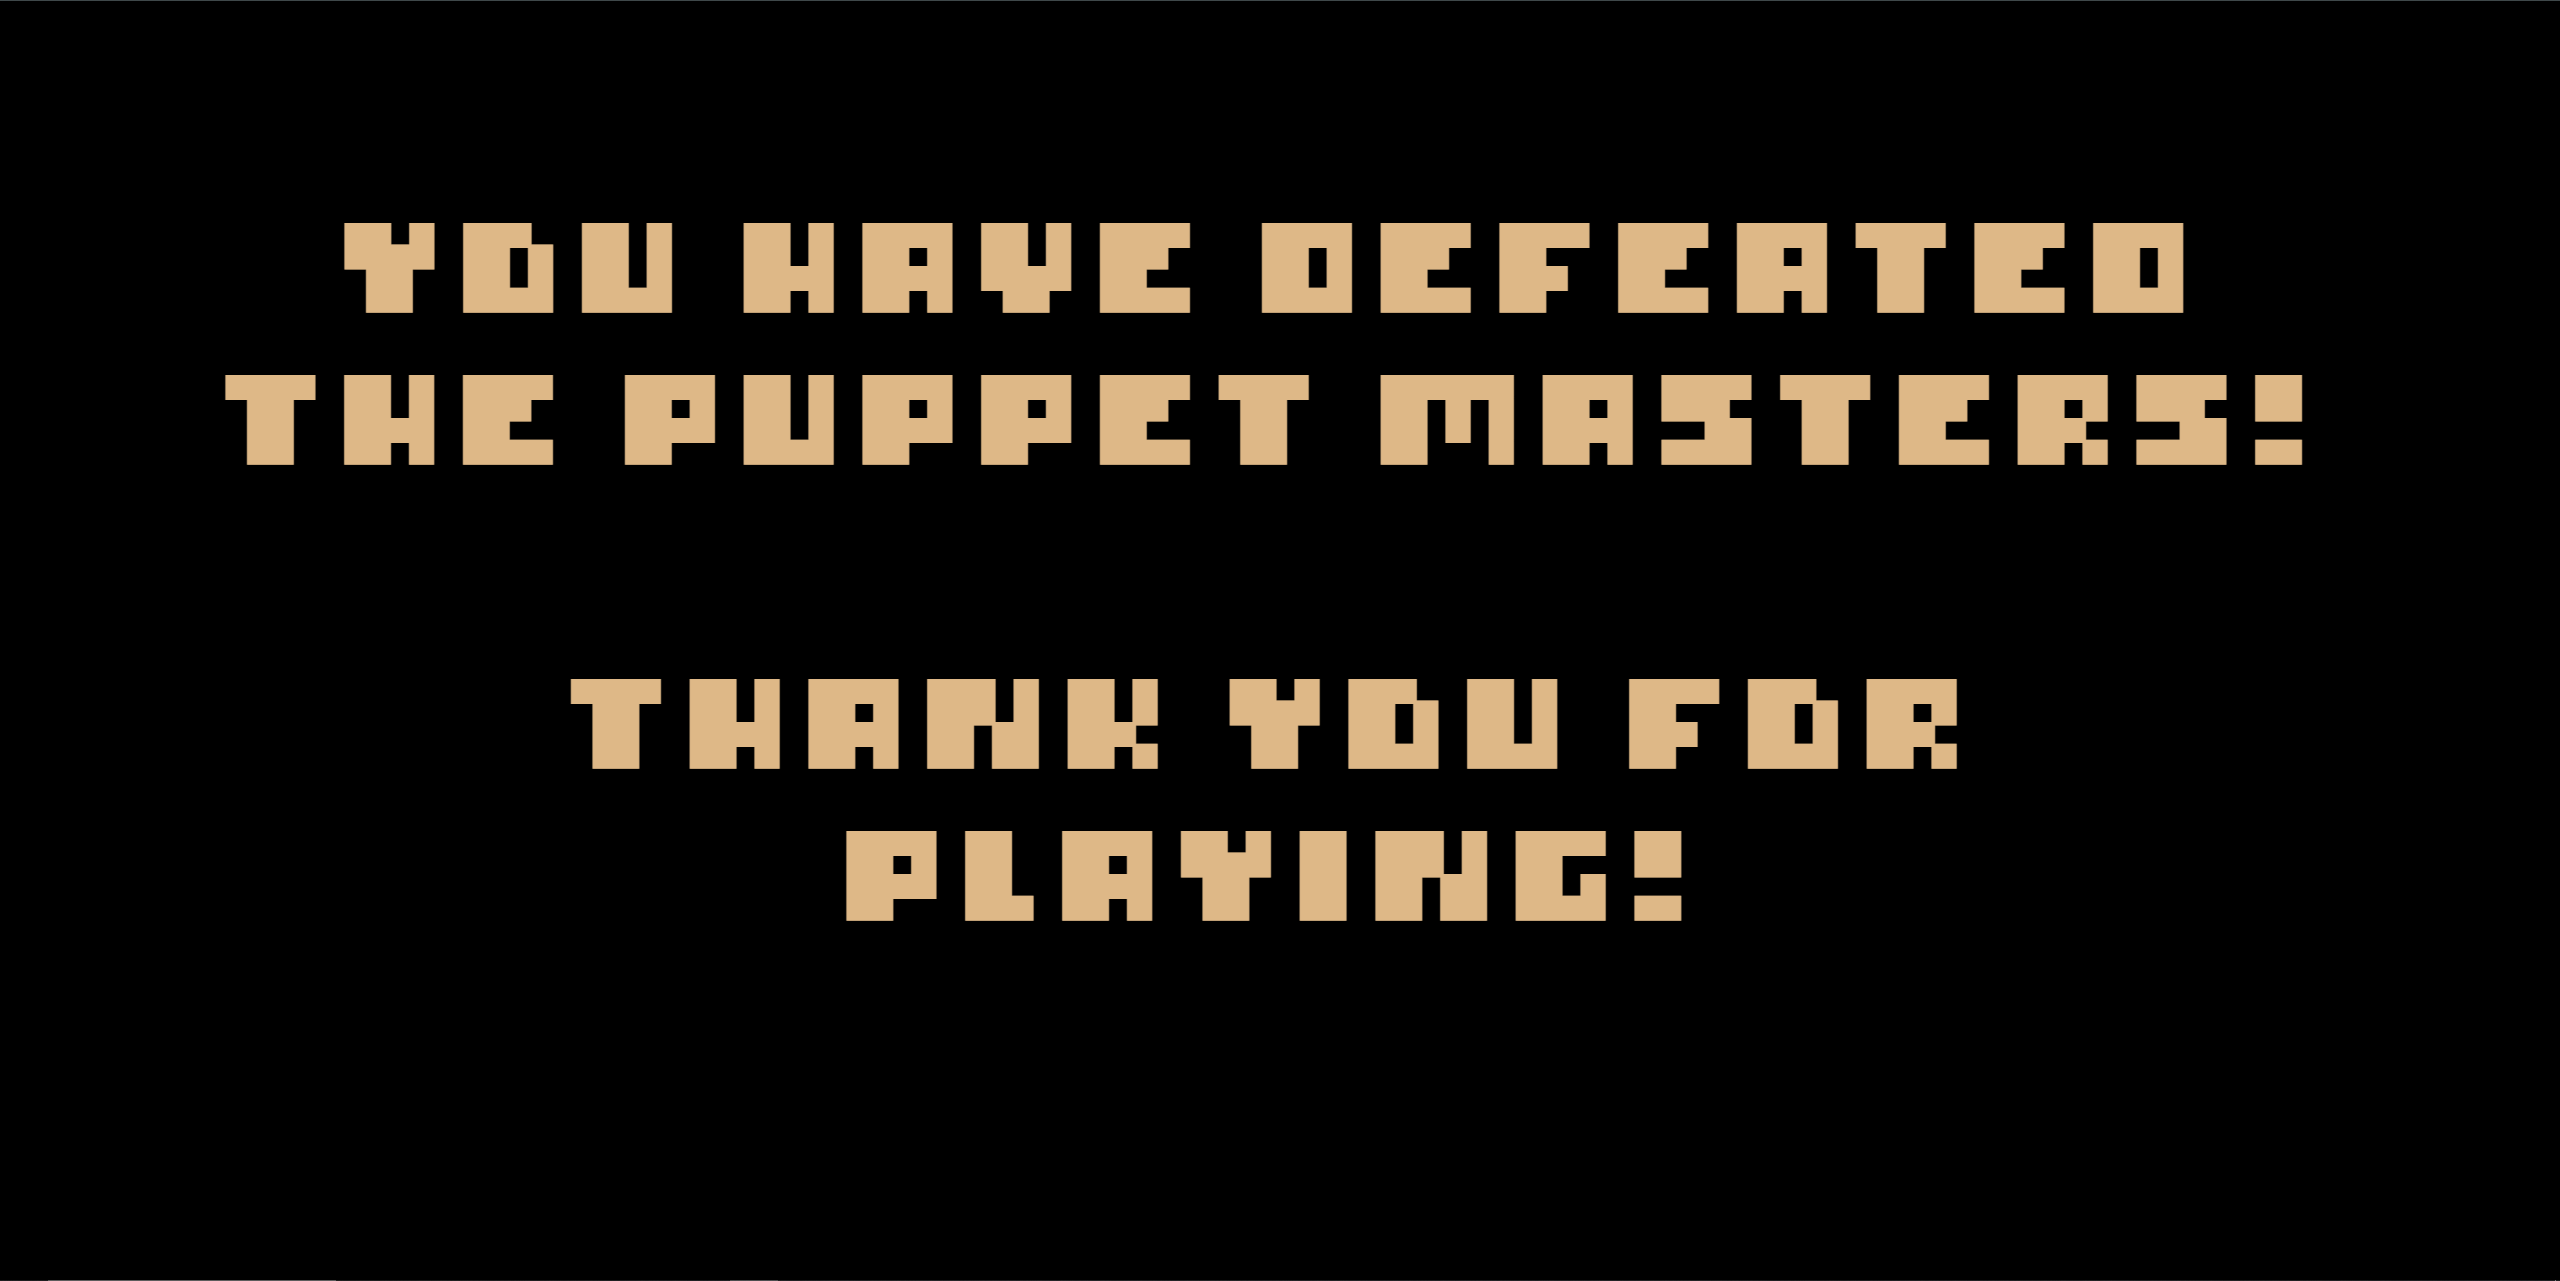
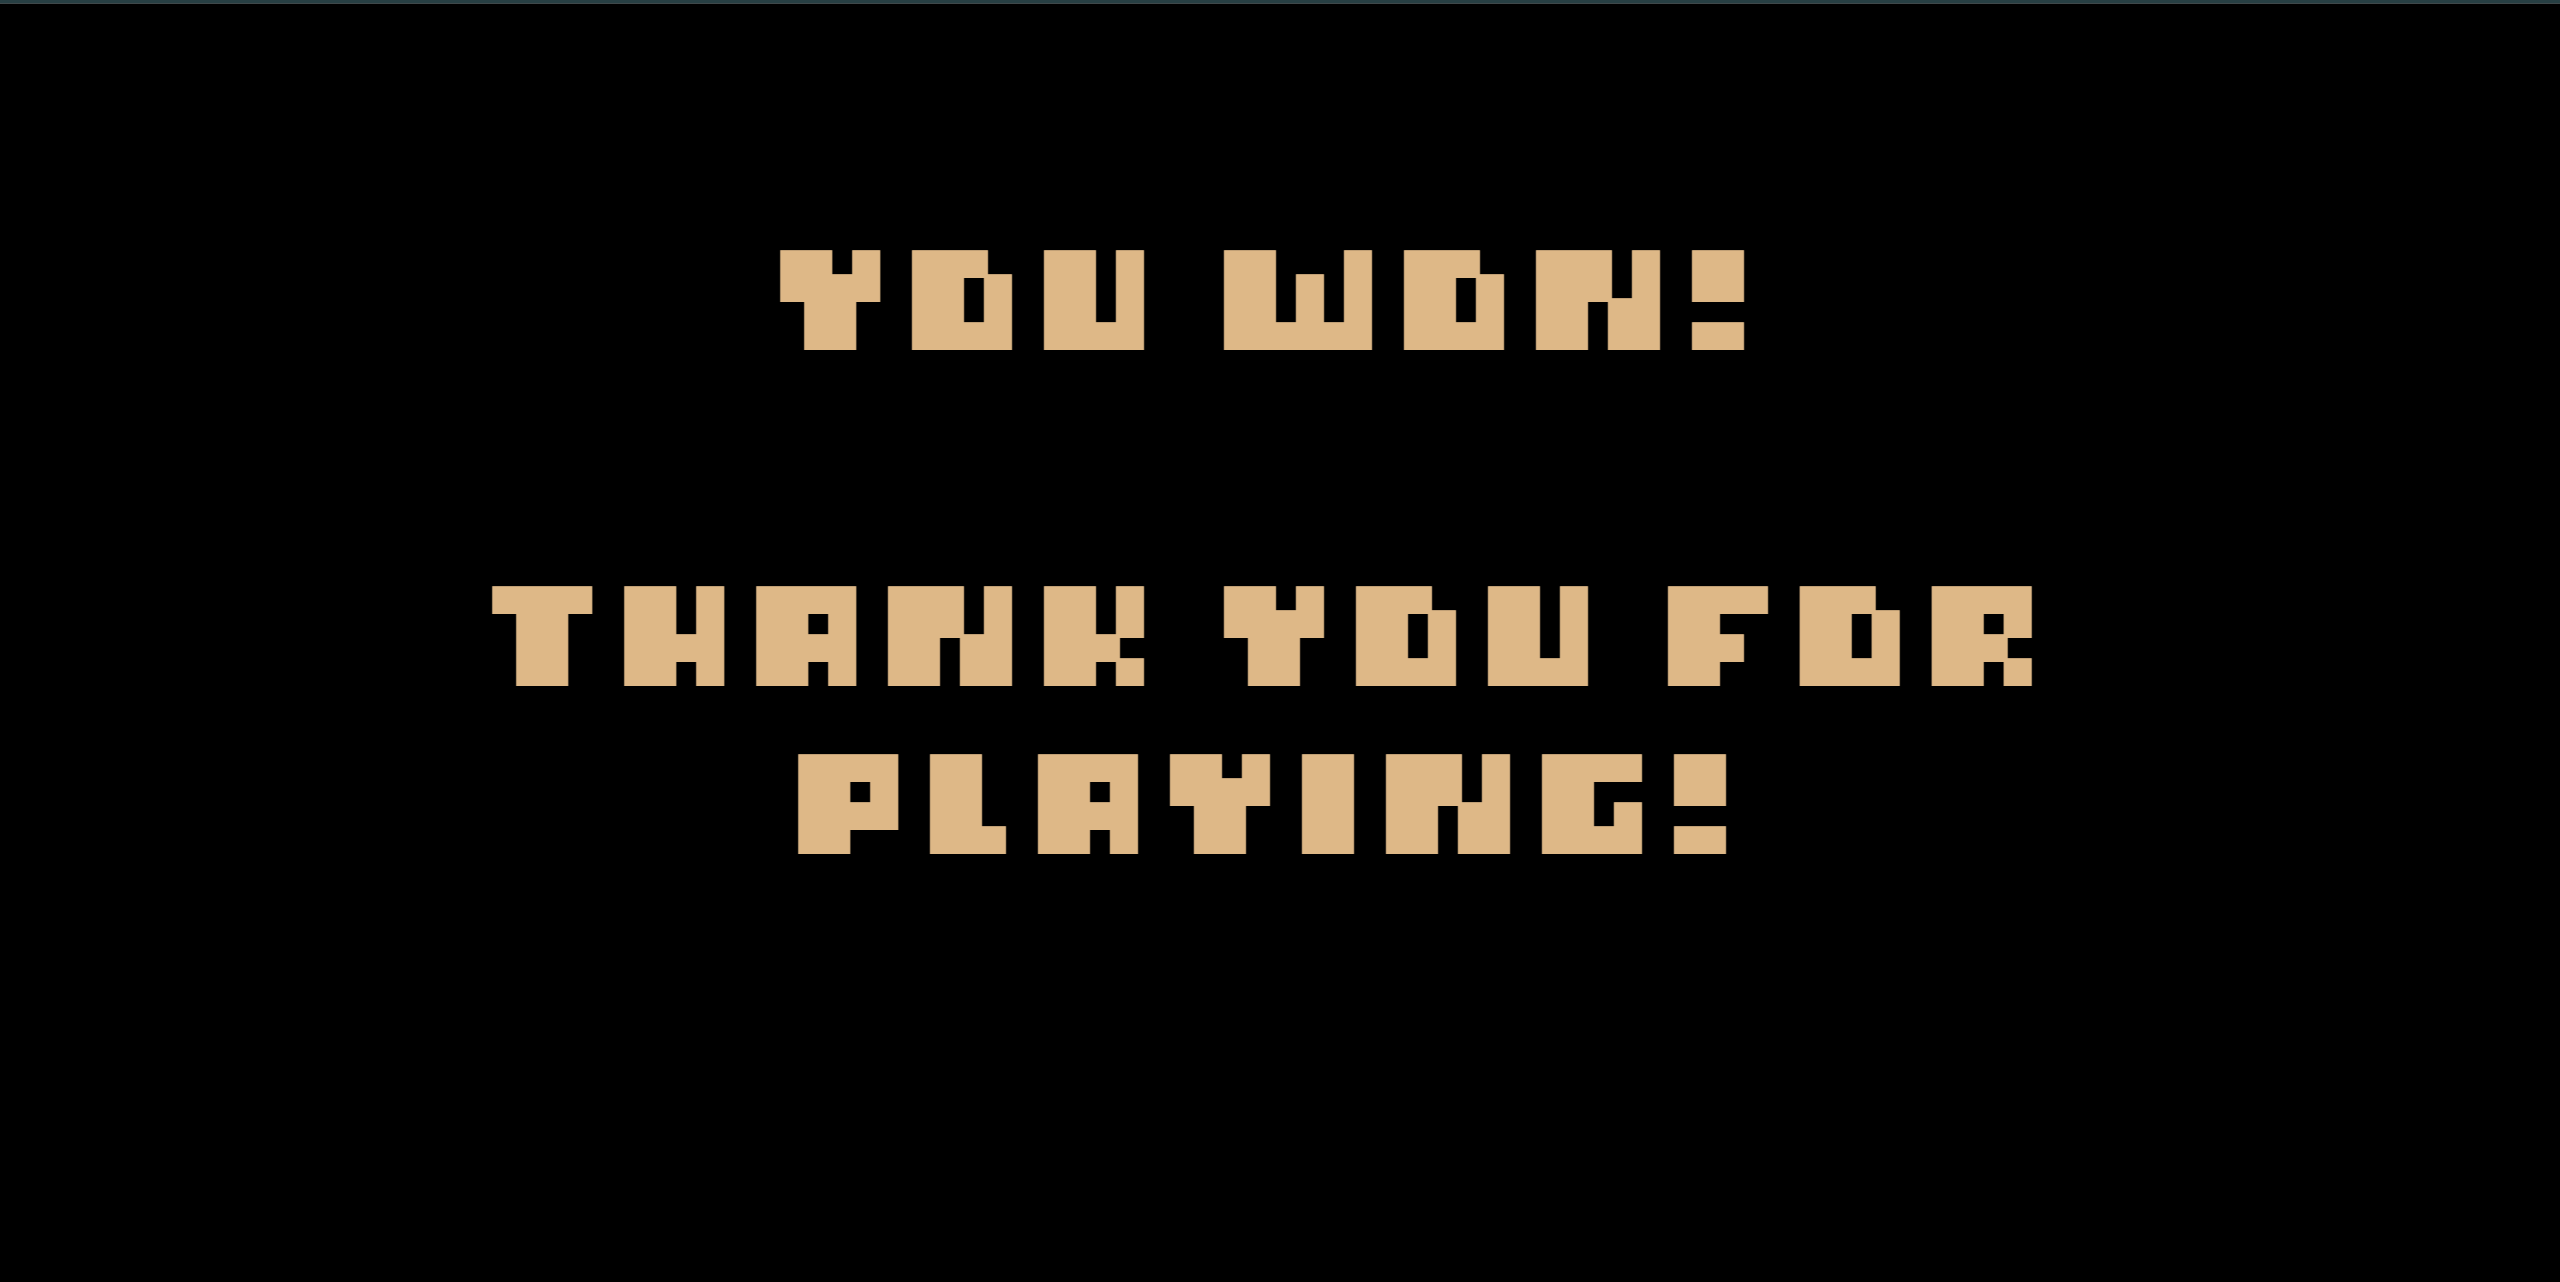
Fixed some timings and fixed the win/death screen size.

Changed region(s): [[0.0625, 0.1561, 0.9062, 0.3747], [0.1875, 0.4372, 0.8125, 0.7182], [0.0, 0.9992, 1.0, 1.0]]

diff --git a/src/endscreen.js b/src/endscreen.js
@@ -5,7 +5,7 @@ class EndScreen {
 
     constructor() {
 
-        this.deathBuffer = 170;
+        this.deathBuffer = 250;
 
     }
 
@@ -26,8 +26,8 @@ class EndScreen {
             this.asset,
             0,
             0,
-            1200,
-            1200,
+            2500,
+            1250,
             0,
             0,
             env.CENTER.x * 2,

diff --git a/stylesheet.css b/stylesheet.css
@@ -31,7 +31,7 @@ h1 {
 }
 
 p {
-    font-size: 12px;
+    font-size: 16px;
     color: burlywood;
     text-shadow: -1px -1px 0 #000, 1px -1px 0 #000, -1px 1px 0 #000, 1px 1px 0 #000;
 }
@@ -70,7 +70,7 @@ html {
 }
 
 input[type='checkbox'] { 
-    accent-color: #deb887; 
+    accent-color: rgb(66, 66, 66); 
     border: solid 1px black;
 }
 

diff --git a/src/winscreen.js b/src/winscreen.js
@@ -5,7 +5,7 @@ class WinScreen {
 
     constructor() {
 
-        this.winBuffer = 120;
+        this.winBuffer = 250;
 
     }
 
@@ -18,7 +18,7 @@ class WinScreen {
 
     draw() {
 
-        // if (this.winBuffer > 0) return;
+        if (this.winBuffer > 0) return;
         GAME.player.state = 0;
 
         env.CTX.drawImage(
